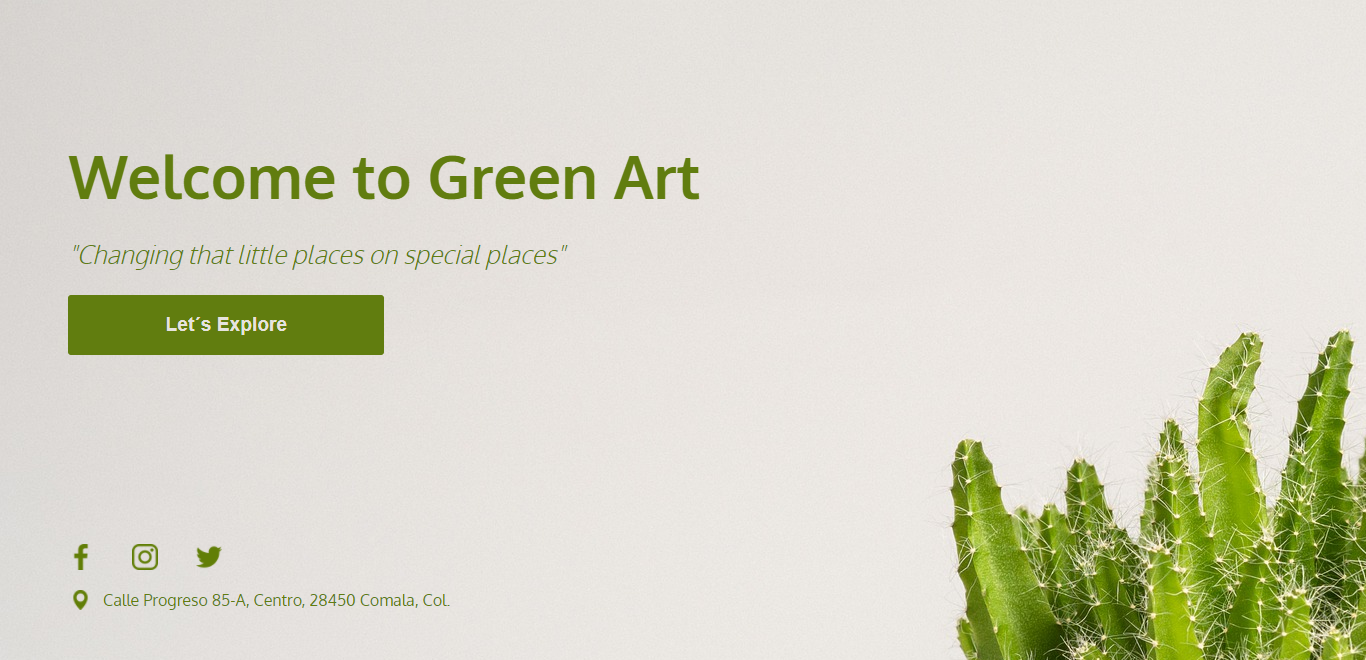
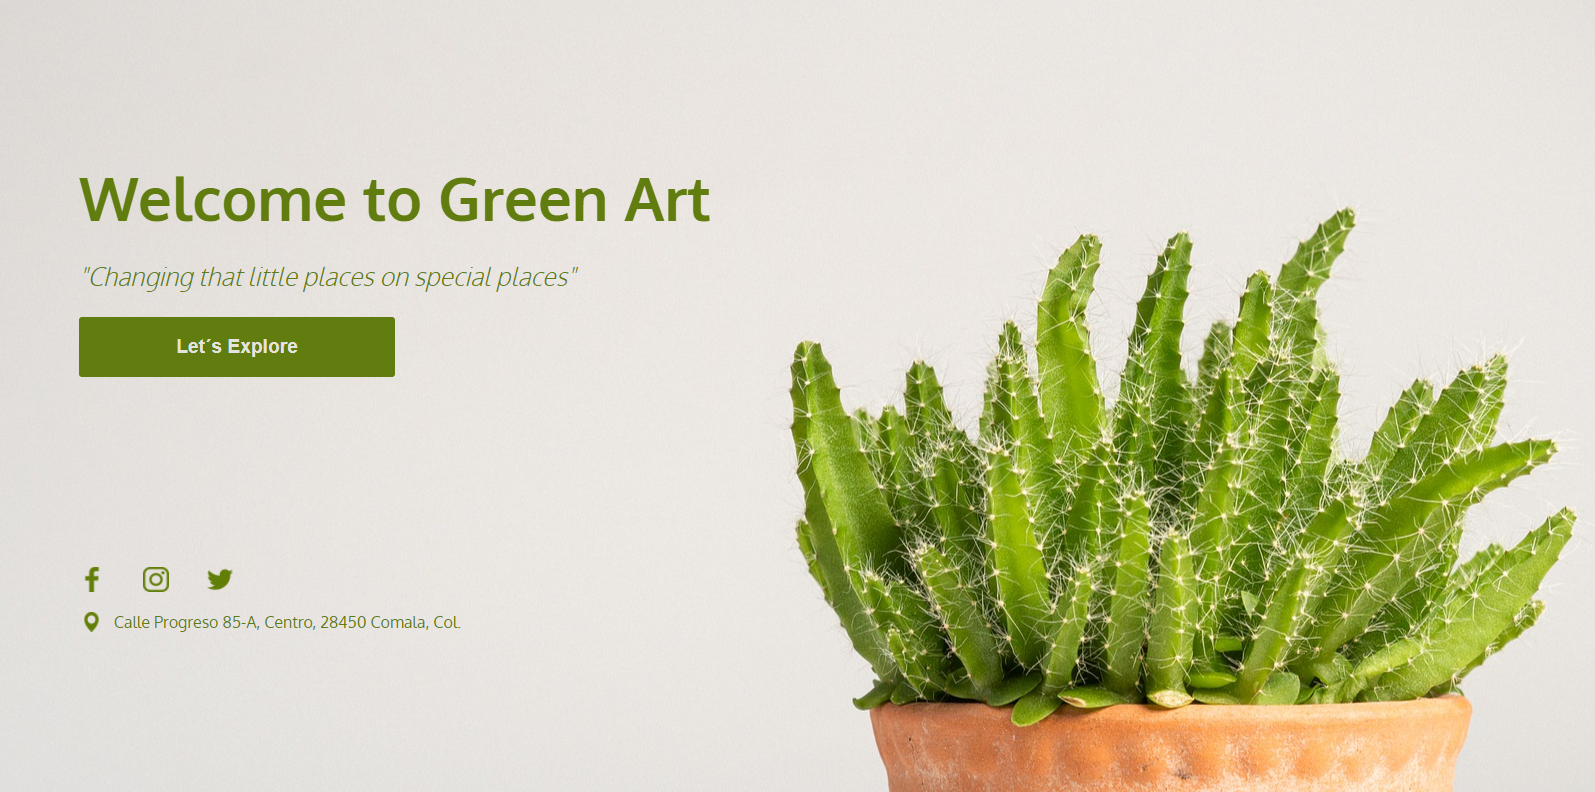
Mobile Version Complete

diff --git a/scss/main.scss b/scss/main.scss
@@ -17,6 +17,7 @@ body{
         top: 0;
         bottom: 0;         
         background-image: url(../images/cactusBanner.jpg);   
+        background-position: 50% 20%;
         #MainContent{
             position: absolute;
             margin: 10% 0% 0% 5%;
@@ -72,3 +73,54 @@ body{
         }                                              
     }
 }
+
+@media (max-width: 380px) {
+    body{
+        #MainContainer{            
+            position: absolute;
+            width:100%;
+            top: 0;
+            bottom: 0;         
+            background-image: url(../images/cactusBanner.jpg);             
+            #MainContent{ 
+                margin: 0;
+                width: 100%;
+                height: auto;  
+                display: flex;
+                flex-direction: column;                                        
+                #Title{                                                               
+                    font-size: 40px;
+                    justify-content: start;
+                    padding: 10% 10% 0% 10%;                      
+                }
+                #SubTitle{                    
+                    font-size: 20px;
+                    padding: 0% 10% 5% 10%;
+                }
+                #button{
+                    width: 80%;   
+                    align-self: center;                                                     
+                }
+
+                #SocialNetworks{
+                    width: 40%;                    
+                    flex-direction: column;
+                    align-items: center;
+                    img{  
+                        width: 30%;
+                        padding: 20%;                      
+                    }                                                                                               
+                }
+
+                #location{                                                                                                           
+                    width: 50%;                        
+                    align-self: flex-start; 
+                    margin-left: 14%;  
+                    font-size: 13px;  
+                    justify-content: space-around;                                                               
+                }
+            }
+        }
+              
+    }    
+  }

diff --git a/css/main.css b/css/main.css
@@ -10,6 +10,7 @@ body #MainContainer {
   top: 0;
   bottom: 0;
   background-image: url(../images/cactusBanner.jpg);
+  background-position: 50% 20%;
 }
 body #MainContainer #MainContent {
   position: absolute;
@@ -59,6 +60,52 @@ body #MainContainer #MainContent #SocialNetworks {
 }
 body #MainContainer #MainContent #SocialNetworks img {
   width: 40%;
+}
+
+@media (max-width: 380px) {
+  body #MainContainer {
+    position: absolute;
+    width: 100%;
+    top: 0;
+    bottom: 0;
+    background-image: url(../images/cactusBanner.jpg);
+  }
+  body #MainContainer #MainContent {
+    margin: 0;
+    width: 100%;
+    height: auto;
+    display: flex;
+    flex-direction: column;
+  }
+  body #MainContainer #MainContent #Title {
+    font-size: 40px;
+    justify-content: start;
+    padding: 10% 10% 0% 10%;
+  }
+  body #MainContainer #MainContent #SubTitle {
+    font-size: 20px;
+    padding: 0% 10% 5% 10%;
+  }
+  body #MainContainer #MainContent #button {
+    width: 80%;
+    align-self: center;
+  }
+  body #MainContainer #MainContent #SocialNetworks {
+    width: 40%;
+    flex-direction: column;
+    align-items: center;
+  }
+  body #MainContainer #MainContent #SocialNetworks img {
+    width: 30%;
+    padding: 20%;
+  }
+  body #MainContainer #MainContent #location {
+    width: 50%;
+    align-self: flex-start;
+    margin-left: 14%;
+    font-size: 13px;
+    justify-content: space-around;
+  }
 }
 
 /*# sourceMappingURL=main.css.map */

diff --git a/index.html b/index.html
@@ -23,7 +23,7 @@
                 <a href=""><img src="./images//twitter.png" alt=""></a>                                                
             </div>
 
-            <p id="location"><img id="locationImage" src="./images//location.png" alt="">Calle Progreso 85-A, Centro, 28450 Comala, Col.</p>
+            <p id="location">Calle Progreso 85-A, Centro, 28450 Comala, Col.</p>
 
            
         </div>                                   

diff --git a/Readme.md b/Readme.md
@@ -4,3 +4,4 @@ Landing page whit Green thematic
 
 ## Preview
 ![Green Art Landing Page](./images/Preview.PNG)
+![Green Art Landing Page](./images/PreviewMobile.PNG)
